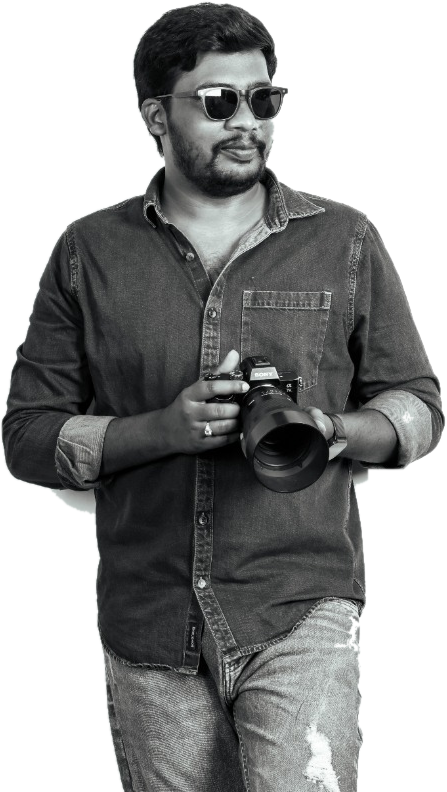
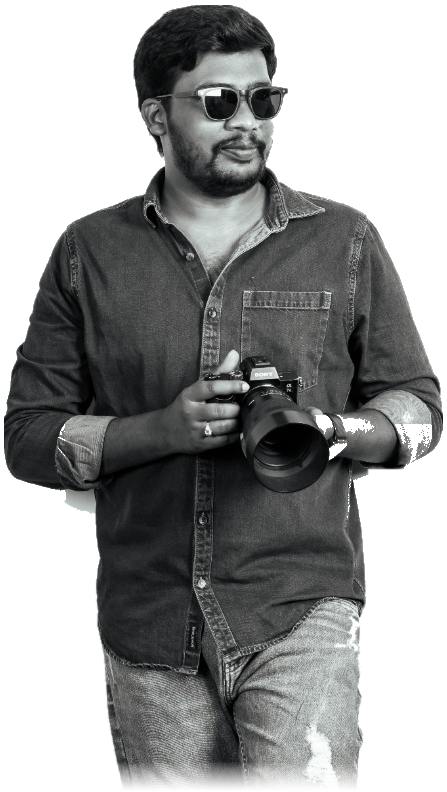
feat(hero): cleanly cropped photographer cutout removing background wall box, shift left on desktop, expand showcase edge-to-edge

diff --git a/src/components/HomeHero.jsx b/src/components/HomeHero.jsx
@@ -192,22 +192,22 @@ export default function HomeHero({ onOpenBooking, onOpenVideoReviews, onScrollTo
       {/* ─── 2. Centerpiece: Mobile has full-width photo with small photographer at bottom-left corner; Laptop/Desktop has side-by-side layout ─── */}
       <div className="relative w-full max-w-[1600px] mx-auto flex-1 flex flex-col md:flex-row items-center md:items-end justify-center md:justify-between md:gap-0 my-auto pt-2 pb-1 sm:py-2 md:overflow-hidden">
 
-        {/* ─── Master Photographer (Anji) — On mobile: small, bottom-left corner ON photo; On desktop: tightly cropped and zoomed in so no background rectangle is visible, shifted left ─── */}
-        <div className="absolute md:relative bottom-0 md:bottom-auto left-0 md:left-auto z-20 pointer-events-none flex items-end justify-center shrink-0 w-auto md:w-[200px] lg:w-[250px] xl:w-[300px] md:h-[510px] lg:h-[570px] xl:h-[630px] md:overflow-hidden md:-ml-6 lg:-ml-8 xl:-ml-10">
+        {/* ─── Master Photographer (Anji) — On mobile: small, bottom-left corner ON photo; On desktop: cleanly cropped cutout, shifted left so no background rectangle appears and left arm bleeds off-edge ─── */}
+        <div className="absolute md:relative bottom-0 md:bottom-auto left-0 md:left-auto z-20 pointer-events-none flex items-end justify-center shrink-0 w-auto md:w-auto md:max-w-[280px] lg:max-w-[340px] xl:max-w-[390px] md:h-[510px] lg:h-[570px] xl:h-[630px] md:overflow-visible md:-ml-8 lg:-ml-12 xl:-ml-16">
           <img
             src="/photographer-cutout.png"
             alt="MY3 Studios Lead Photographer Anji"
-            className="w-auto max-w-[130px] min-[390px]:max-w-[145px] md:max-w-none md:w-[320px] lg:w-[380px] xl:w-[440px] max-h-[225px] min-[390px]:max-h-[250px] sm:max-h-[280px] md:max-h-none md:h-full object-contain md:object-cover md:object-top drop-shadow-[0_18px_32px_rgba(0,0,0,0.22)]"
+            className="w-auto max-w-[130px] min-[390px]:max-w-[145px] md:max-w-none md:w-auto md:h-full max-h-[225px] min-[390px]:max-h-[250px] sm:max-h-[280px] object-contain md:object-bottom drop-shadow-[0_18px_32px_rgba(0,0,0,0.22)]"
             style={{
-              WebkitMaskImage: 'linear-gradient(to bottom, black 82%, rgba(0,0,0,0.3) 96%, transparent 100%)',
-              maskImage: 'linear-gradient(to bottom, black 82%, rgba(0,0,0,0.3) 96%, transparent 100%)',
+              WebkitMaskImage: 'linear-gradient(to bottom, black 85%, rgba(0,0,0,0.3) 97%, transparent 100%)',
+              maskImage: 'linear-gradient(to bottom, black 85%, rgba(0,0,0,0.3) 97%, transparent 100%)',
             }}
           />
         </div>
 
         {/* ─── Single-Image Showcase — Covers TOTAL width on mobile; on laptop/desktop fills ALL remaining space edge-to-edge, no white gaps, no border radius on right edge ─── */}
         <div
-          className="w-full md:flex-1 h-[390px] min-[390px]:h-[440px] sm:h-[470px] md:h-[510px] lg:h-[570px] xl:h-[630px] rounded-2xl sm:rounded-3xl md:rounded-l-[32px] md:rounded-r-none overflow-hidden relative shadow-2xl bg-[#181A1D] md:border-r-0 border border-charcoal-800 cursor-pointer select-none md:-mr-4 lg:-mr-14"
+          className="w-full md:flex-1 h-[390px] min-[390px]:h-[440px] sm:h-[470px] md:h-[510px] lg:h-[570px] xl:h-[630px] rounded-2xl sm:rounded-3xl md:rounded-l-[32px] md:rounded-r-none overflow-hidden relative shadow-2xl bg-[#181A1D] md:border-r-0 border border-charcoal-800 cursor-pointer select-none md:-mr-8 lg:-mr-14"
           onTouchStart={handleTouchStart}
           onTouchMove={handleTouchMove}
           onTouchEnd={handleTouchEnd}
